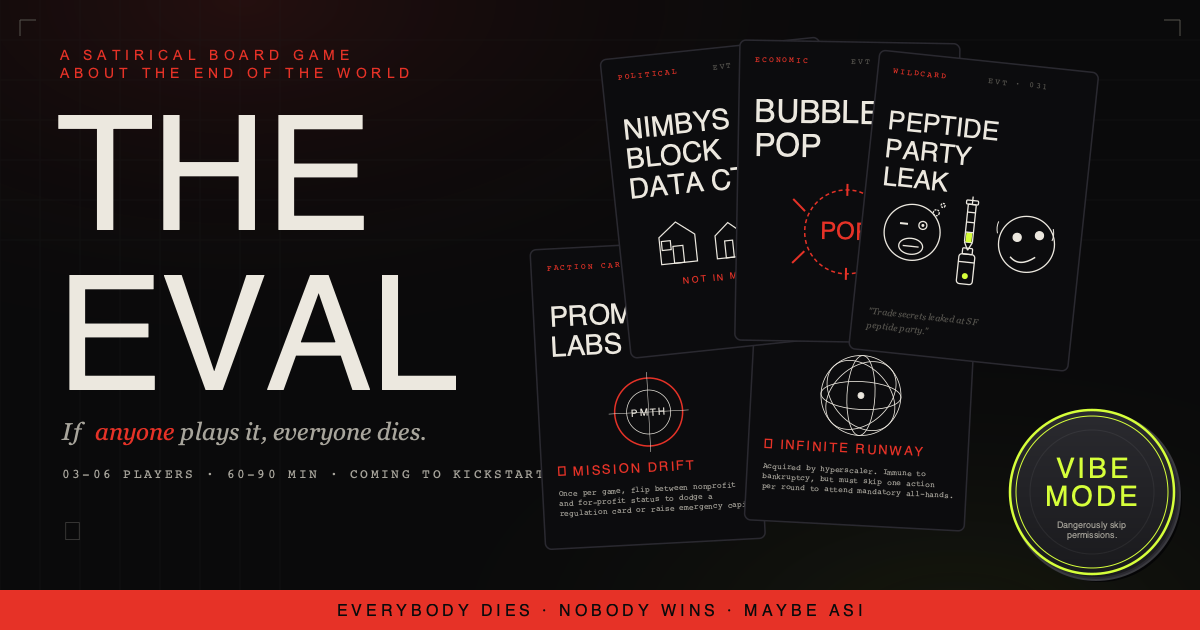
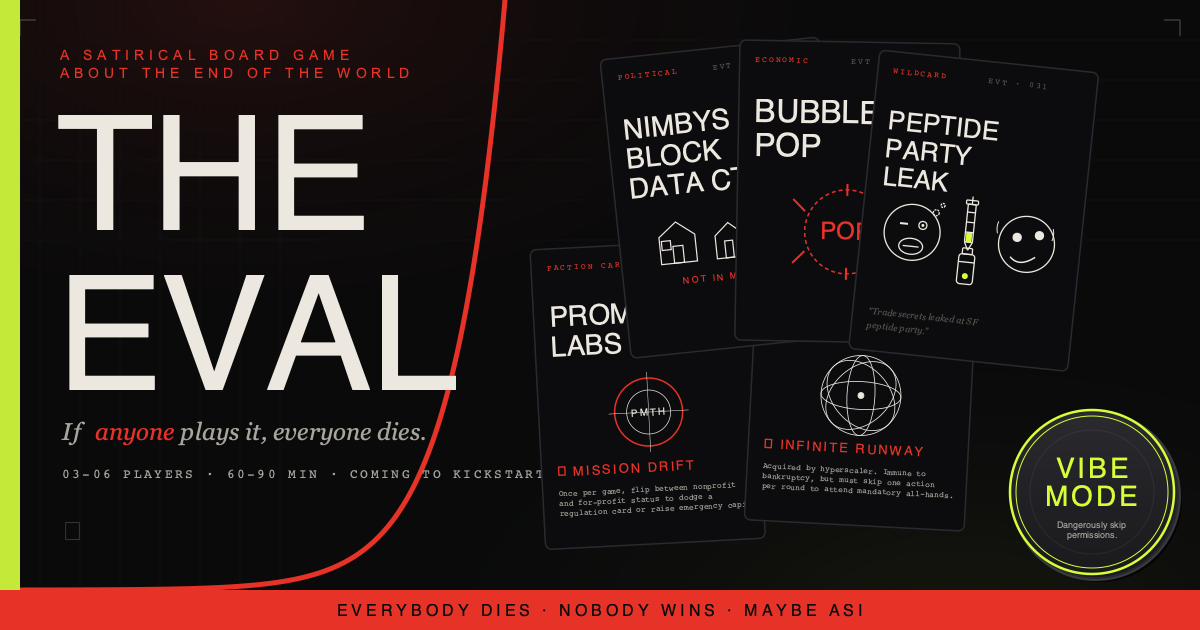
OG image: green y-axis bar + red exponential curve (#2)
- Darkened Vibe Mode green (#c4e938) y-axis bar up the left edge, stacked on the red x-axis bar
- Red exponential curve from the axis origin, under every other element, clipping the L of EVAL
- og:image / twitter:image now point at og-image.png?v=2 so social platforms refetch it

Claude-Session: https://claude.ai/code/session_0142e8Cen7Eqyb2CAvGptsG6

diff --git a/the-eval.html b/the-eval.html
@@ -13,8 +13,8 @@
 <meta name="twitter:card" content="summary_large_image">
 <meta name="twitter:title" content="THE EVAL — If anyone plays it, everyone dies.">
 <meta name="twitter:description" content="A satirical board game about the AI race. Coming to Kickstarter.">
-<meta property="og:image" content="https://the-eval.com/og-image.png">
-<meta name="twitter:image" content="https://the-eval.com/og-image.png">
+<meta property="og:image" content="https://the-eval.com/og-image.png?v=2">
+<meta name="twitter:image" content="https://the-eval.com/og-image.png?v=2">
 <link rel="preconnect" href="https://fonts.googleapis.com">
 <link rel="preconnect" href="https://fonts.gstatic.com" crossorigin>
 <link href="https://fonts.googleapis.com/css2?family=Antonio:wght@400;600;700&family=Newsreader:ital,wght@1,400;1,500&family=JetBrains+Mono:wght@400;500;700&display=swap" rel="stylesheet">
